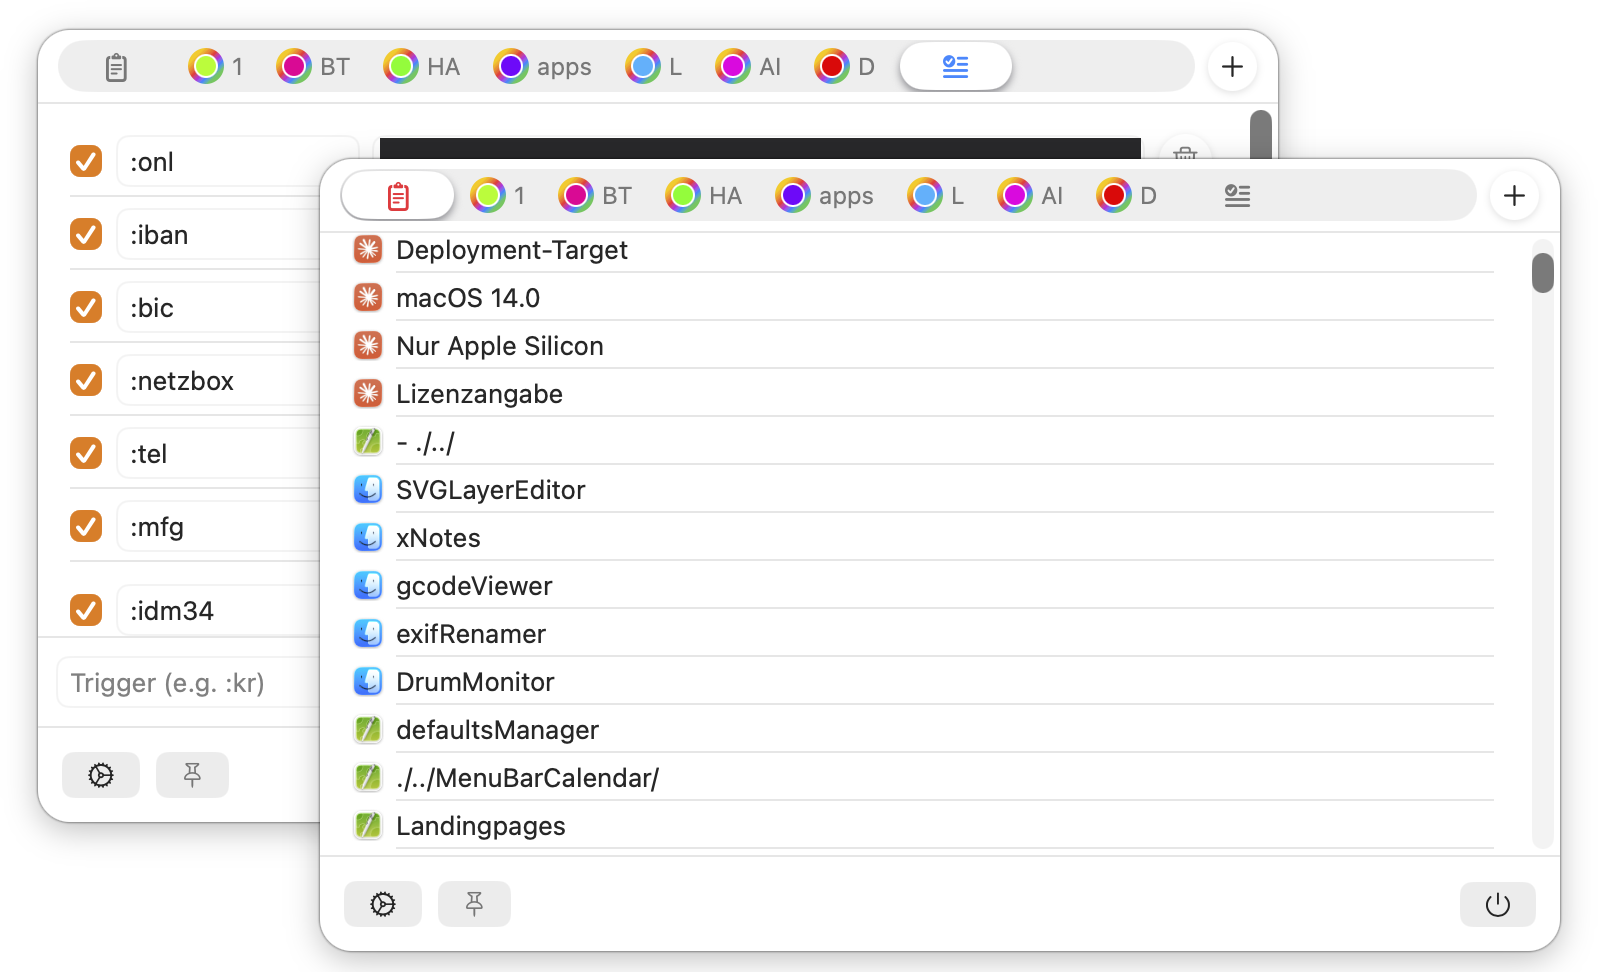
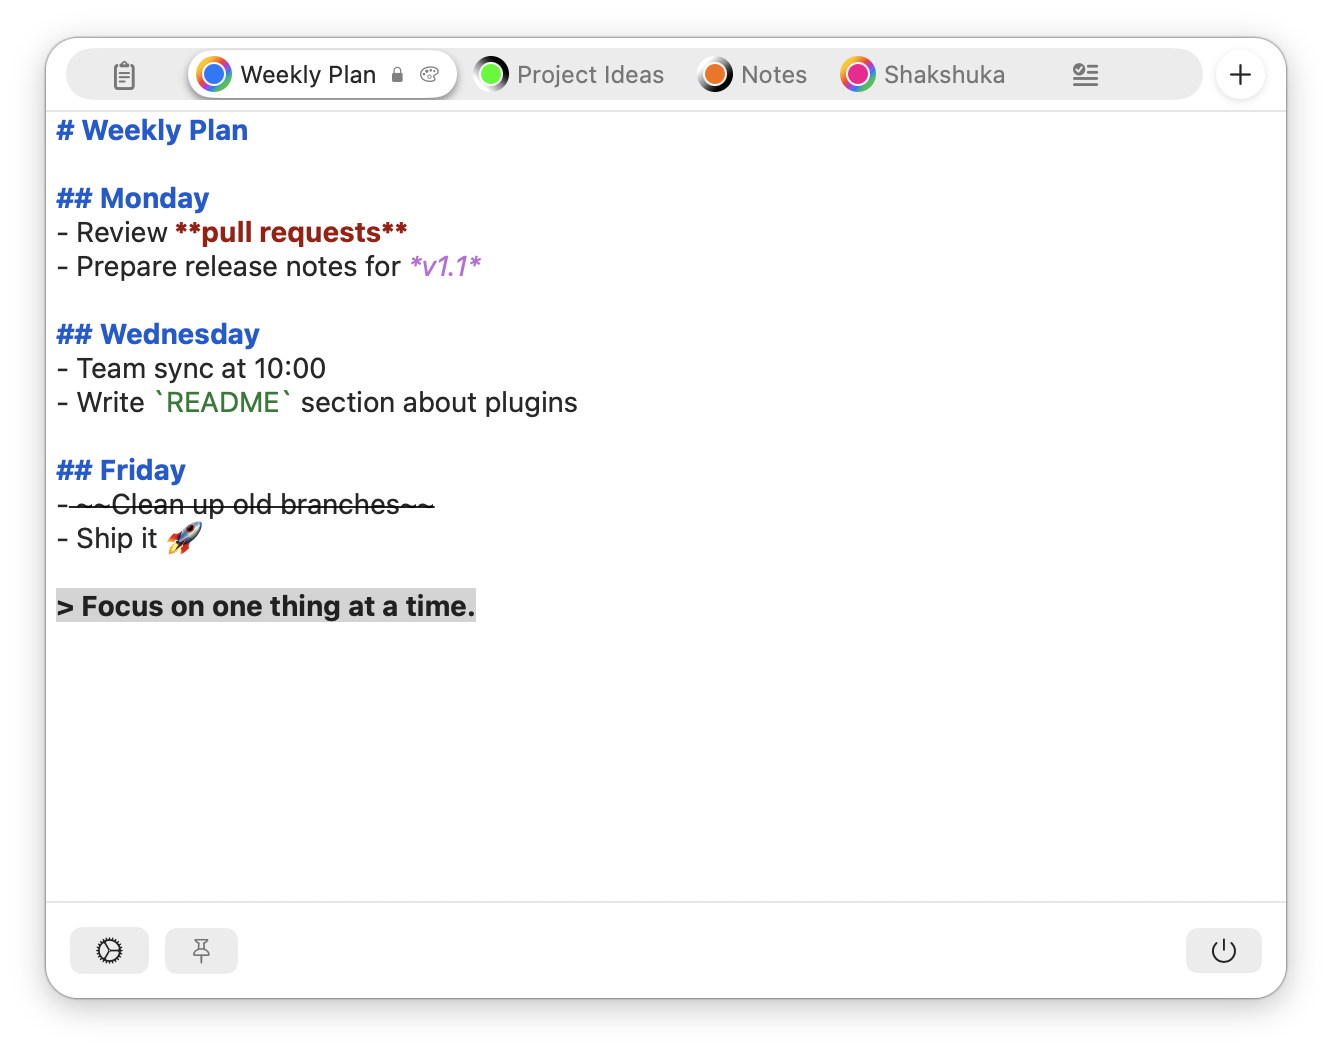
Update screenshots with demo data and show them per section
Replace the montage at the top with the notes view and place the
clipboard and text expansion screenshots in their usage sections.
Screenshots were taken in demo mode with sample data.

diff --git a/README.md b/README.md
@@ -2,7 +2,9 @@
 
 xNotes is a lightweight macOS menu bar notes app that keeps notes in colour-coded tabs, tracks a full clipboard history alongside them, and lets you cut repetitive typing with a built-in text expander. Define a short trigger, hint it with a snippet of any length — a signature, a standard reply, an address, a code block — and xNotes replaces the trigger with the full snippet the moment you type it, in whichever app you're working in.
 
-![screenshot](./screenshot.png)
+<p align="center">
+  <img src="./screenshot.png" width="600" alt="xNotes with colour-coded tabs and Markdown highlighting">
+</p>
 
 ## Features
 - Menu bar popover for fast access
@@ -50,12 +52,20 @@ Alternatively, right-click the app in Finder and choose "Open".
 - Define short triggers that expand into longer snippets
 - Manage rules in the Text Expansion view
 
+<p align="center">
+  <img src="./snippets.png" width="600" alt="Text expansion rules">
+</p>
+
 ### Clipboard
 - New clipboard entries are captured automatically (text only)
 - Duplicates are deduplicated; newest moves to top
 - Pinned items stay at the top and are not removable
 - Right-click an item for transformations and actions
 - In the clipboard-only panel, type to filter; Return pastes the first match into the last app
+
+<p align="center">
+  <img src="./clipboard.png" width="600" alt="Clipboard history with pinned items and the transform context menu">
+</p>
 
 ### Clipboard Transform Plugins
 Every `.js` file in `~/Library/Application Support/de.adcore.xNotes/Transforms/` adds an entry to the clipboard context menu. Changes are picked up automatically. A README and three example plugins are created there on first launch (context menu ▸ Plugins ▸ Open Plugins Folder).
